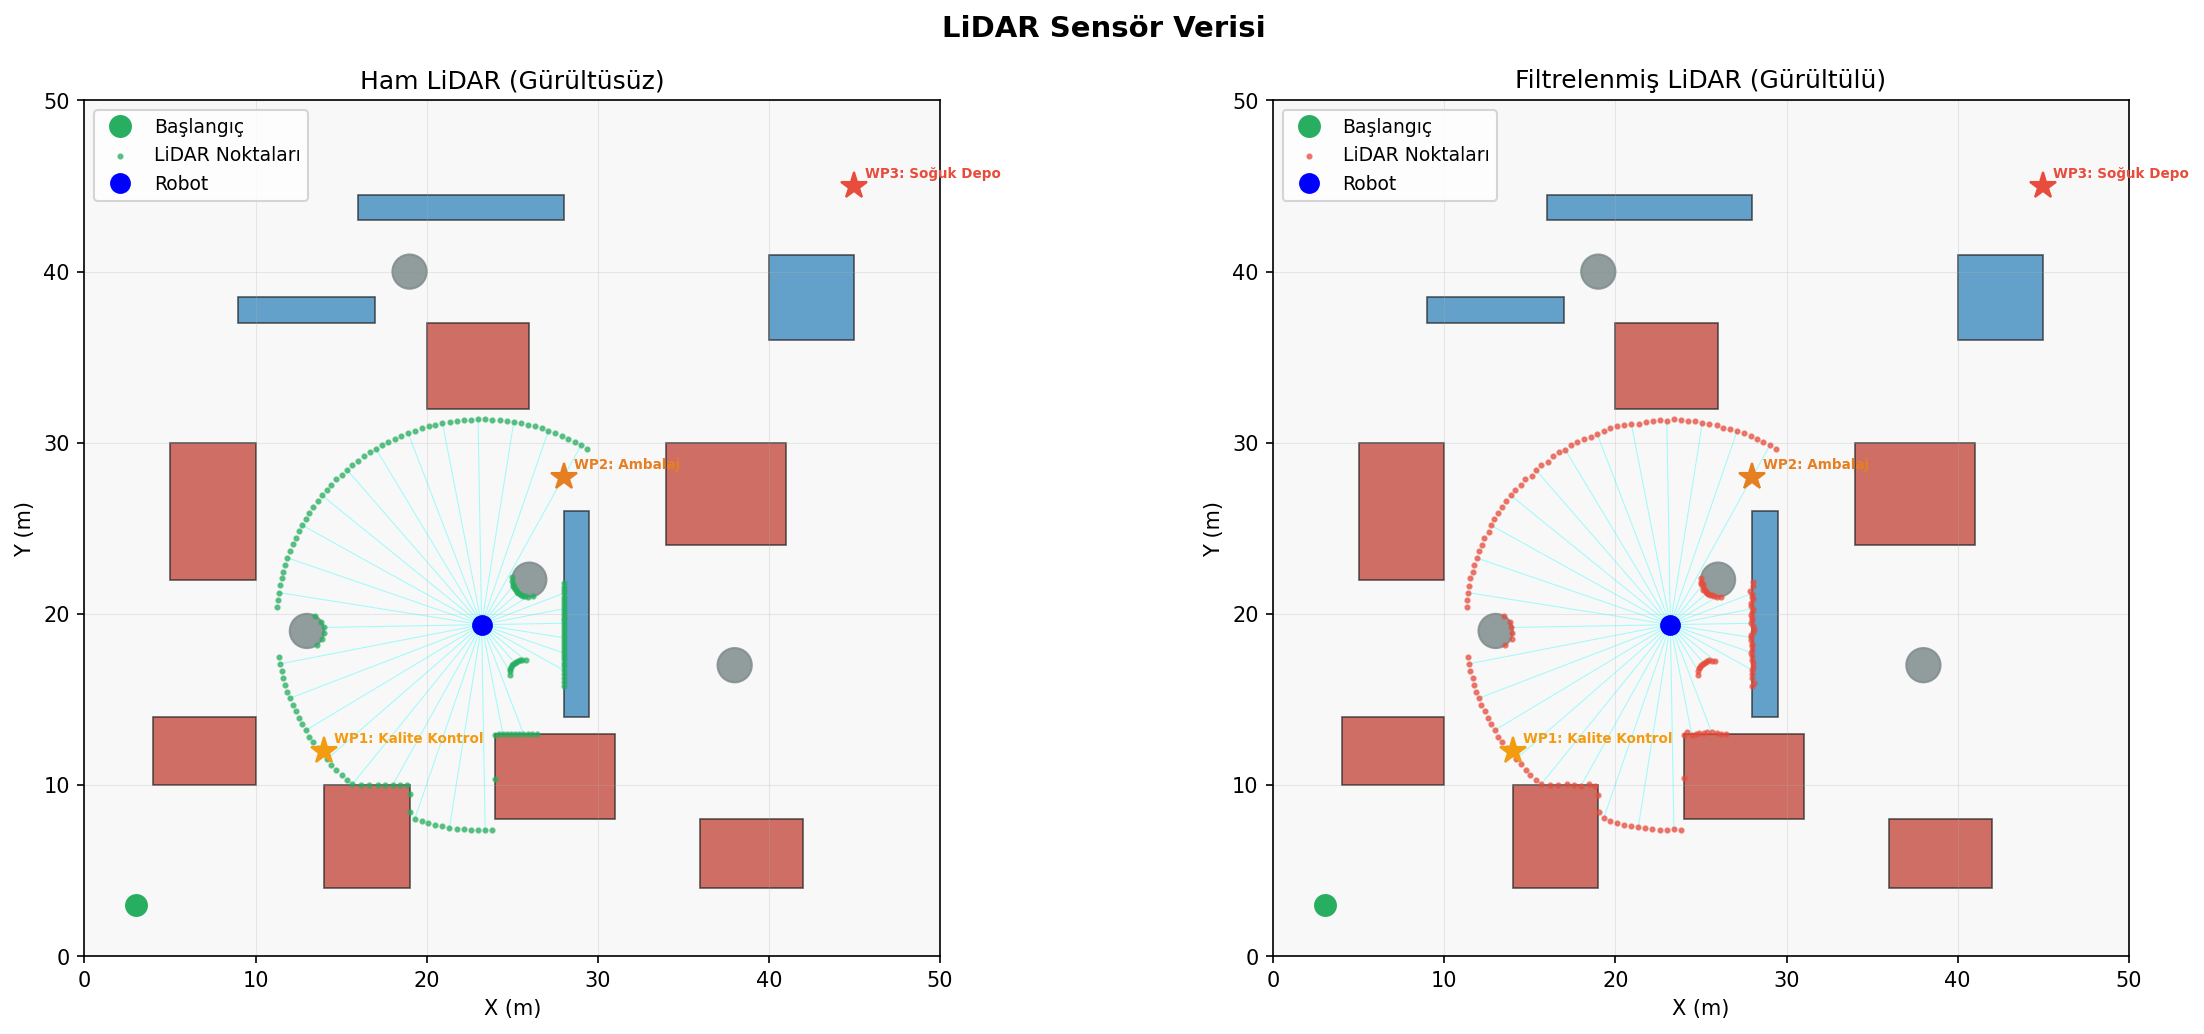
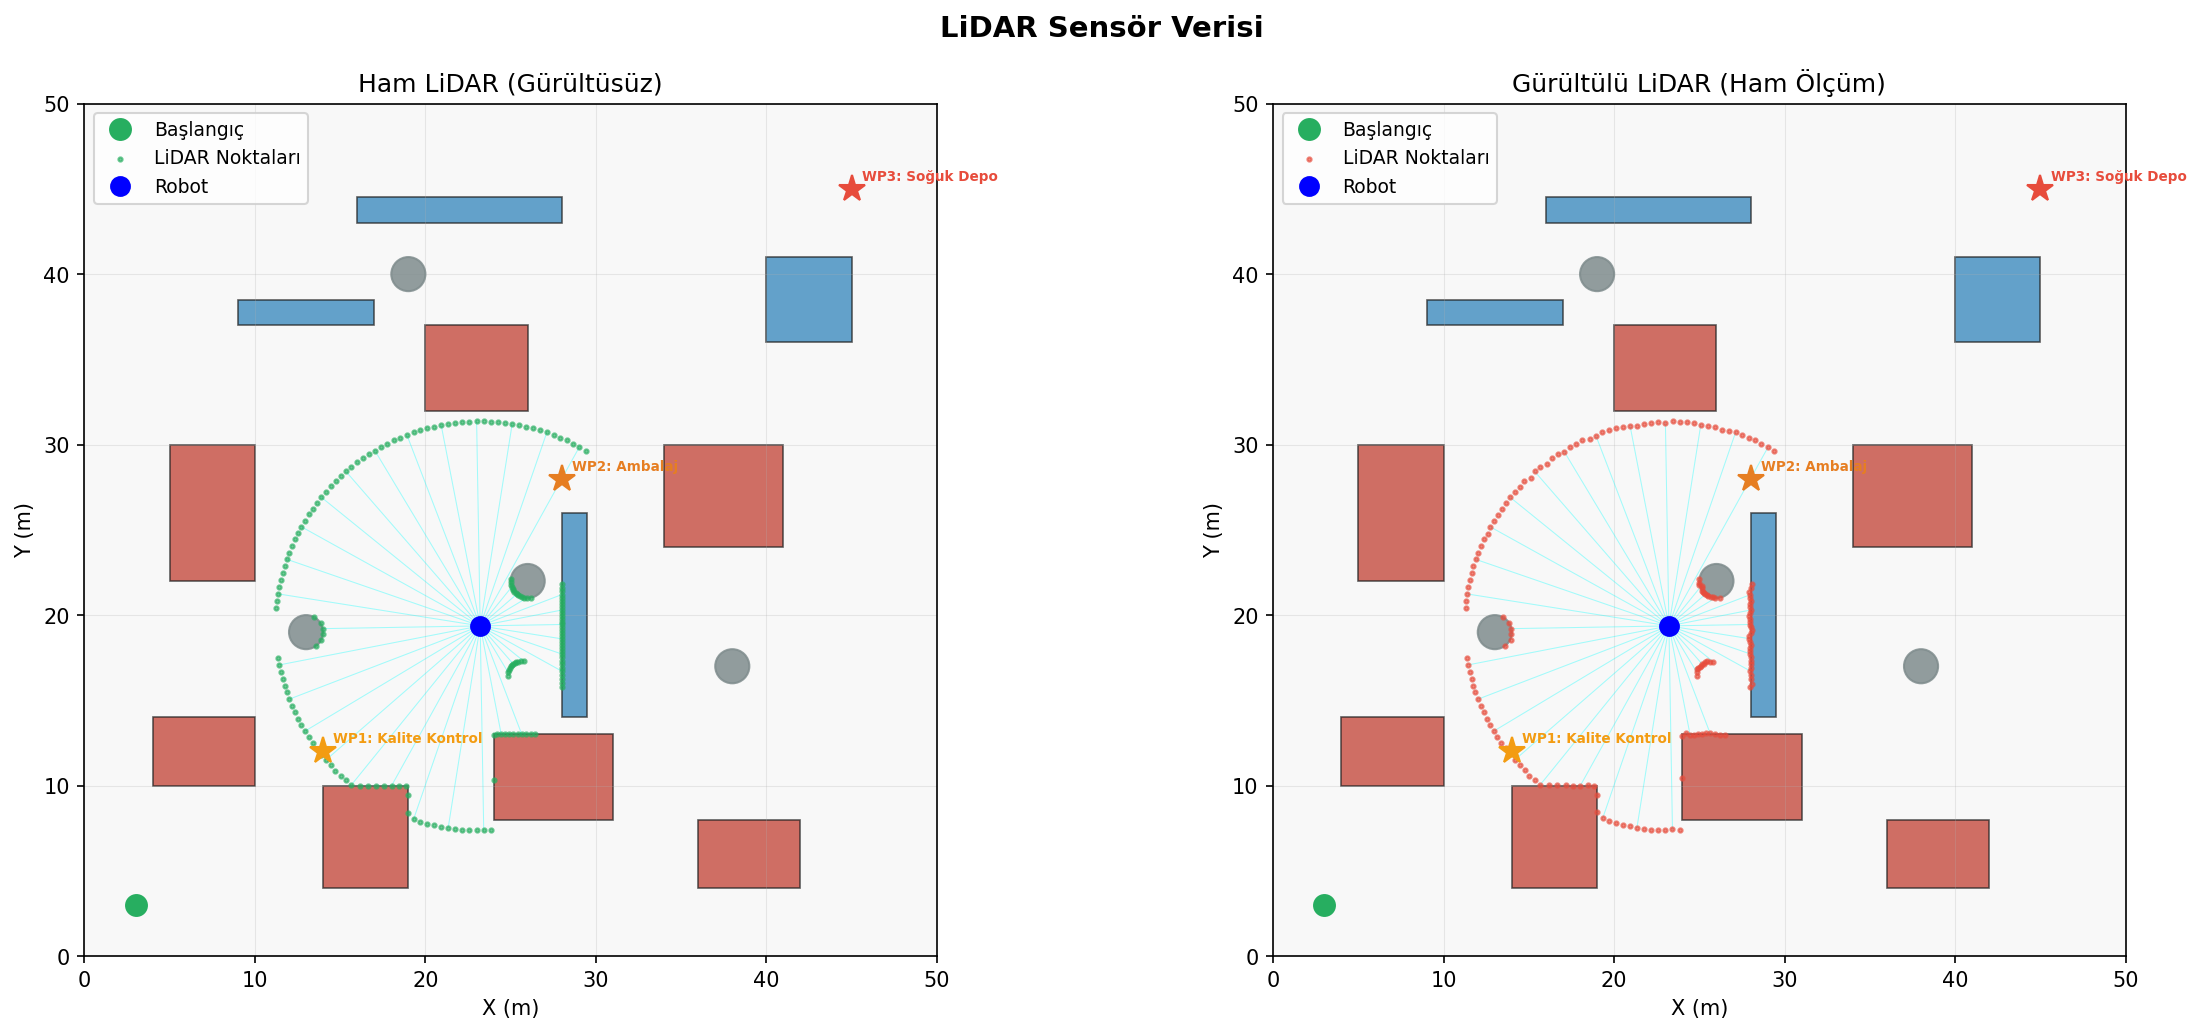
fix: clear stale outputs on each run + 3 more bug fixes
- main.py: shutil.rmtree outputs/ before every run so stale files never persist
- main.py: warn when PF and Bug2 reach different waypoint counts
- visualization.py: fix LiDAR noisy panel label (was 'Filtrelenmiş', now 'Gurultulu')
- navigation.py: removed unused _hit_point field from Bug2

diff --git a/main.py b/main.py
@@ -9,6 +9,7 @@ Kullanım:
 """
 
 import os
+import shutil
 import numpy as np
 
 from environment import Environment
@@ -153,7 +154,9 @@ def run_simulation(navigator_type='potential_field', seed=42, verbose=True):
 # ------------------------------------------------------------------ #
 
 def main():
-    os.makedirs('outputs', exist_ok=True)
+    if os.path.exists('outputs'):
+        shutil.rmtree('outputs')
+    os.makedirs('outputs')
 
     print("=" * 55)
     print("  FrostBot — Pizza Fabrikası Simülasyonu")
@@ -200,6 +203,9 @@ def main():
     # Waypoint karşılaştırma tablosu
     print(f"\n  {'Waypoint':<22} {'PF Sure':>9} {'PF Mesafe':>11} {'Bug2 Sure':>11} {'Bug2 Mesafe':>13}")
     print(f"  {'-'*68}")
+    if len(pf['waypoint_log']) != len(b2['waypoint_log']):
+        print(f"  [UYARI] Waypoint sayıları eşleşmiyor: "
+              f"PF={len(pf['waypoint_log'])}, Bug2={len(b2['waypoint_log'])}")
     for pf_wp, b2_wp in zip(pf['waypoint_log'], b2['waypoint_log']):
         pf_dist  = _path_length(pf['true_path'], pf_wp['step'])
         b2_dist  = _path_length(b2['true_path'], b2_wp['step'])

diff --git a/navigation.py b/navigation.py
@@ -98,14 +98,12 @@ class Bug2Nav:
     def __init__(self, start):
         self.start       = np.array(start, dtype=float)
         self._mode       = 'GO_TO_GOAL'
-        self._hit_point  = None
         self._min_dist   = np.inf
         self._wall_steps = 0
 
     def reset(self, new_start):
         self.start       = np.array(new_start, dtype=float)
         self._mode       = 'GO_TO_GOAL'
-        self._hit_point  = None
         self._min_dist   = np.inf
         self._wall_steps = 0
 
@@ -123,7 +121,6 @@ class Bug2Nav:
             self._wall_steps = 0
             if front_min < self.OBS_THRESHOLD:
                 self._mode      = 'FOLLOW_WALL'
-                self._hit_point = np.array([x, y])
                 self._min_dist  = d_goal
             return self._go_to_goal(theta, gx - x, gy - y, d_goal)
 

diff --git a/visualization.py b/visualization.py
@@ -135,7 +135,7 @@ def plot_lidar(robot_state, true_dist, noisy_dist, lidar, env):
 
     for ax, dists, title, pt_color in [
         (axes[0], true_dist,  'Ham LiDAR (Gürültüsüz)',         '#27ae60'),
-        (axes[1], noisy_dist, 'Filtrelenmiş LiDAR (Gürültülü)', '#e74c3c'),
+        (axes[1], noisy_dist, 'Gürültülü LiDAR (Ham Ölçüm)',    '#e74c3c'),
     ]:
         _draw_env(ax, env, show_names=False)
         px, py = lidar.to_cartesian(robot_state, dists)